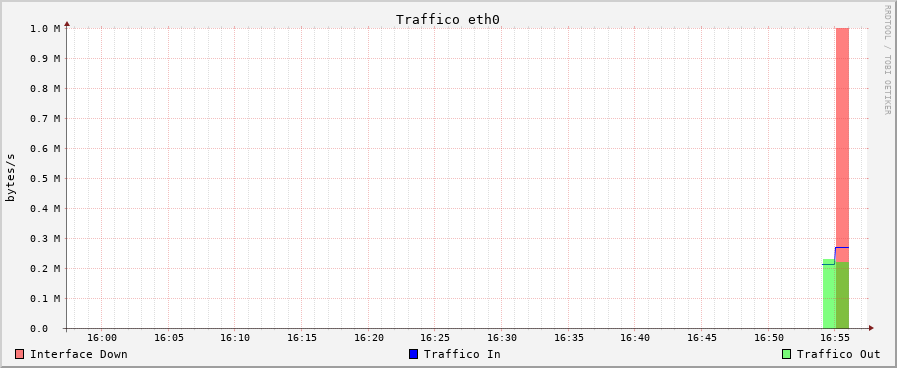
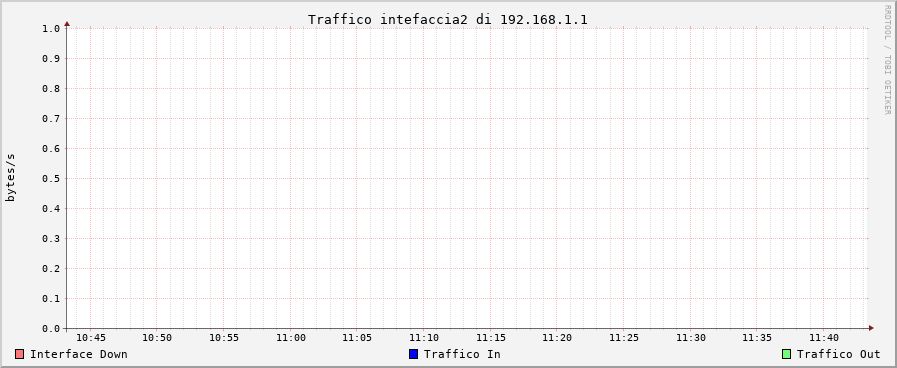
nome meglio fatto

diff --git a/snmp-monitor/src/snmp_monitor/rdd_module/rdd_manager.py b/snmp-monitor/src/snmp_monitor/rdd_module/rdd_manager.py
@@ -3,6 +3,18 @@ import csv
 import time
 import rrdtool
 
+
+def parse_rrd_filename(filename: str) -> tuple[str, str]:
+    """Restituisce IP e indice di interfaccia a partire da un nome di file RRD.
+
+    Formato atteso: 192_168_1_1_if1.rrd -> ("192.168.1.1", "1")
+    """
+    stem = os.path.basename(filename)[:-4]
+    ip_part, iface_part = stem.rsplit("_if", 1)
+    ip_address = ip_part.replace("_", ".")
+    return ip_address, iface_part
+
+
 def create_rrd_path(agent_ip:str,if_index:str)-> str :
 
     #crea il filename per l'agent 

diff --git a/snmp-monitor/src/snmp_monitor/rdd_module/rdd_grapher.py b/snmp-monitor/src/snmp_monitor/rdd_module/rdd_grapher.py
@@ -1,5 +1,6 @@
 import os
 import rrdtool
+from snmp_monitor.rdd_module.rdd_manager import parse_rrd_filename
 
 def graph_traffic(path:str) :
 
@@ -13,13 +14,15 @@ def graph_traffic(path:str) :
     print(f"File esiste: {os.path.exists(rrd_path_abs)}")
     print(f"DEF: DEF:traffic_in:{rrd_path_abs}:if_octets_in:AVERAGE")
 
+    ip,inf = parse_rrd_filename(path)
+
     # Genero il grafico con un intervallo di 1 ora e una linea più leggibile
     # così i punti non spariscono se i campioni arrivano con un po' di ritardo
     rrdtool.graph(
         png_path,
         "--start", "-1h", #inizio tempo dati raccolti
         "--end", "now", #fine tempo dati raccolti
-        "--title", "Traffico eth0", #titolo grafo
+        "--title", f"Traffico intefaccia{inf} di {ip}", #titolo grafo
         "--vertical-label", "bytes/s", #testo asse verticale
         "--width", "800", #larghezza
         "--height", "300", #altezza